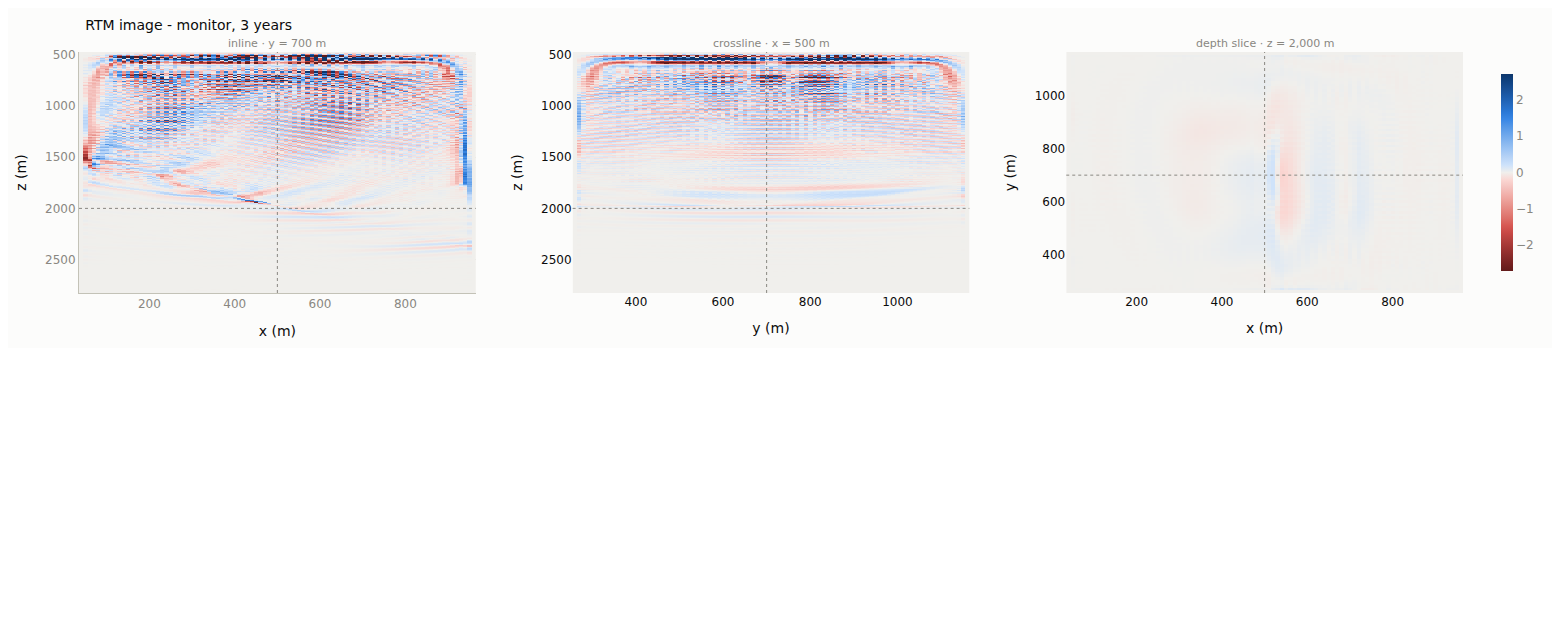
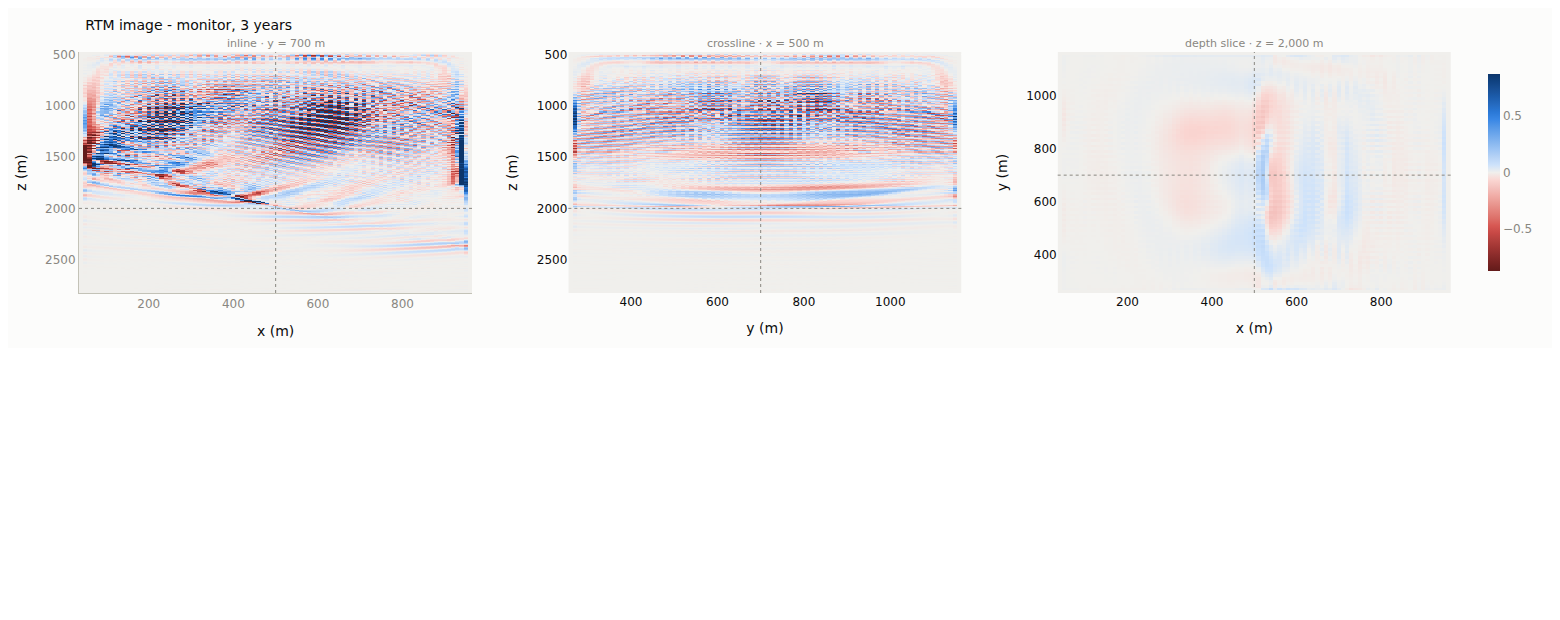
Re-migrate on the corrected water leg, and window the 4D properly
The migration stood on the same flow the clamp had wrong, so it is re-run
here. The 600 m taper is in the configuration now, so there is one set of
figures rather than a tapered and an untapered pair.

| window | before | after |
|---|---|---|
| whole propagation domain | 8.96 % | 7.92 % |
| reservoir window | 29.16 % | 28.57 % |
| flood front | 33.06 % | 28.45 % |

The whole-volume number is diluted 3.6x by barren overburden, which is the
cleanest demonstration of "NRMS depends on where you measure it" this
project has. It is also not comparable with the sim2seis near stack -
different bandwidth, different noise, different domain - and the document
now says so instead of implying the two should agree.

Three things the document had wrong are fixed rather than restated:

* it claimed the configuration set neither taper_wavelengths nor
  correlation_start_time. Both default on and always were; the taper's
  radius was the problem, not its absence.
* "What was not run: the migrated image" was left over from before the
  migration ran. It now names what actually was not run.
* the answer to whether more shots would help: not for the edge stripes,
  which are outside the source carpet at x = 240-760 and are un-illuminated
  operator; yes for the interior, where 260 m shot spacing is ten times the
  26 m operator-aliasing limit for a 40-degree dip at 38.5 Hz.

Claude-Session: https://claude.ai/code/session_01BefLg2e3eG4b8hKzg5iNz5

diff --git a/docs/dipping-wedge-4d.md b/docs/dipping-wedge-4d.md
@@ -264,11 +264,37 @@ It ran: 9 shots per survey, two surveys, on the isotropic 10 m grid at a
 | imaging | 2,835 s |
 | total | ~68 min on an idle 4-core machine |
 | memory | 3.56 GB, flat across all 18 shots |
-| RTM 4D NRMS | 8.96 % |
+
+The re-run on the corrected water leg took 158 min for the same work,
+because a test suite and two analysis jobs shared the four cores. Two numba
+jobs on four cores is the oversubscription trap this project has measured
+before; the cost here was 2.5x, not the 13x the flow solver showed, but it
+is the same mistake.
 
 ![the migrated 4D difference](figures/wedge-32_rtm_4d.png)
 
 ![the migrated section](figures/wedge-33_rtm_section.png)
+
+**NRMS depends entirely on where you measure it**, and this is the cleanest
+demonstration of it in the project:
+
+| window | 4D NRMS |
+|---|---|
+| the whole propagation domain | 7.92 % |
+| reservoir window, x 270-730 m, z 1,700-2,400 m | **28.57 %** |
+| the flood front, x 400-620 m, z 1,750-2,150 m | 28.45 % |
+
+The whole-volume figure is diluted 3.6x by overburden that has no 4D change
+in it at all. Only the windowed number means anything, and quoting the
+whole-volume one next to a reservoir measurement would be comparing two
+different questions.
+
+It is also not comparable with the 13.65 % the sim2seis near stack reports.
+Those differ in bandwidth (a 16 Hz Ricker against a 6-12-40-55 Ormsby), in
+noise (the sim2seis cubes carry a 4.65 % floor, these images carry none) and
+in domain (depth against time). The migration is here to put the reflector
+in the right place, which a 1D convolution cannot do at 40 degrees; it is
+not a second opinion on the amplitude.
 
 **The dipping reflector is in the right place.** That is the whole reason to
 pay for a migration here: the 1D convolution mispositions a 40-degree dip by
@@ -293,57 +319,44 @@ a domain with no boundary at all - despite being thinner than the usual
 one-to-two-wavelength guidance. Doubling it would double the domain to
 remove 0.024 % of an artefact.
 
-**The near-field taper, sized properly.** The default is one wavelength,
-126 m here, and it was already on - the artefact simply reaches much
-further. A raised cosine `0.5(1 - cos(pi r/R))` suppresses by only 11 % at
-100 m from a receiver, so the shallow section kept ten times the
-reservoir's RMS.
+**The near-field taper, sized properly.** `taper_wavelengths` defaults to 1
+and `correlation_start_time` to the straight-down-and-back time at the
+fastest velocity, so both were already on before any of this - the artefact
+simply reaches further than one wavelength. At 126 m the shallow section
+carried ten times the reservoir's RMS, because a raised cosine
+`0.5(1 - cos(pi r/R))` suppresses by only 11 % at 100 m from a receiver. The
+configuration now sets `taper_radius: 600.0`, and on this run the shallow
+section measures 0.159 RMS against the reservoir's 0.111 - a ratio of 1.4,
+where it was 9.9.
 
-| extra taper | shallow RMS | reservoir RMS | ratio | 4D NRMS |
-|---|---|---|---|---|
-| none | 1.182 | 0.120 | 9.9 | 29.16 % |
-| 400 m | 0.262 | 0.120 | 2.2 | 29.16 % |
-| **600 m** | 0.133 | 0.120 | **1.1** | 29.16 % |
-| 800 m | 0.079 | 0.120 | 0.7 | 29.16 % |
+The taper is identical in both surveys and cannot reach the target -
+receivers sit at 620 m and the sand inside the imaging window is below
+1,790 m - so it changes the picture and no 4D measurement, which is exactly
+what the function claims for itself.
 
-600 m brings the artefact to parity with the reservoir. It cannot reach the
-target - receivers sit at 620 m and the sand inside the imaging window is
-below 1,790 m - and **the 4D NRMS does not move at all**, because the taper
-is identical in both surveys and cancels exactly in the difference. It
-changes the picture and no measurement, which is what the function claims
-for itself.
-
-![the tapered section](figures/wedge-36_rtm_section_tapered.png)
-
-**The remaining artefacts are worth naming.** Sources sit at 600 m and
-receivers at 620 m, which is 100 m below the top of the propagation domain
-and 20 m inside the absorbing layer's inner edge, so the top of every image
-carries strong near-field ringing. That is the *source*, not the boundary: a
-source is a singularity and no imaging condition removes it. This project
-already learned that once and added `taper_wavelengths` and
-`correlation_start_time` to `RTMSettings` for it; this configuration sets
-neither, which is the cheapest available improvement to the image and costs
-no propagation, because the taper applies to the image rather than to the
-wavefield. The right-hand edge carries the
-same from the domain boundary. With 9 shots the illumination of a
-40-degree dip is sparse, and the QC said so before the run: the survey
-clears the target by 90 m on its narrowest edge, under the 100 m the check
-wants.
-
-**On the 8.96 %.** It is not comparable with the 23.15 % the sim2seis near
-stack reports, because the two are measured over different volumes: the
-migrated image spans the whole propagation domain, most of which is barren
-overburden with no 4D change at all, and a whole-volume NRMS is diluted by
-exactly that. This project has the lesson already - *NRMS depends entirely
-on where you measure it* - and the honest comparison is in a reservoir
-window, which is work still to do.
+**More shots would not fix the edges, and would fix the middle.** The nine
+sources span x = 240 to 760 m; the image spans 40 to 960 m. The stripes down
+the left and right of the section are outside the source carpet entirely,
+so they are un-illuminated migration operator and no number of shots inside
+that footprint touches them - only a wider survey would. Inside the
+aperture it is the opposite: 260 m shot spacing against the operator-
+aliasing limit `V/(4 f sin(theta))`, which at 2,597 m/s, 38.5 Hz and 40
+degrees is 26 m, is a factor of ten too coarse, and the 40 m receiver
+spacing is 1.5x too coarse. The smearing between the shots is aliasing, and
+denser shooting is what removes it.
 
 ## What was not run
 
-The migrated image. The acquisition is defined and passes QC — 30 sources,
-361 receivers, 10,830 traces, clearing the target by 110 m on its narrowest
-edge — but a full-wave run at this bandwidth is the expensive path, and the
-dip is exactly what makes it so: imaging a 40-degree reflector without
-operator aliasing wants trace spacing under about 18 m at 55 Hz. The
-sim2seis numbers above are amplitude-correct per column and structurally
-wrong; a migration would fix the second and change the first.
+**A denser shot carpet.** Nine shots is what makes the interior of this
+image noisy, and the fix is arithmetic: ten times the shots for the same
+survey is ten times the forward modelling and ten times the imaging, so
+about eleven hours on this machine instead of one. The image would be worth
+it; the wall clock is the reason it is not here.
+
+**The angle-stack decomposition on the migrated image.** The migration runs
+`[baseline, combined]` only. Separating pressure from saturation costs
+another two full surveys and does not need a migration to be meaningful -
+that is what the sim2seis run is for, at a quarter of the compute.
+
+**A depth-converted sim2seis section**, which would let the two modes be
+laid side by side on one axis rather than compared through a table.
